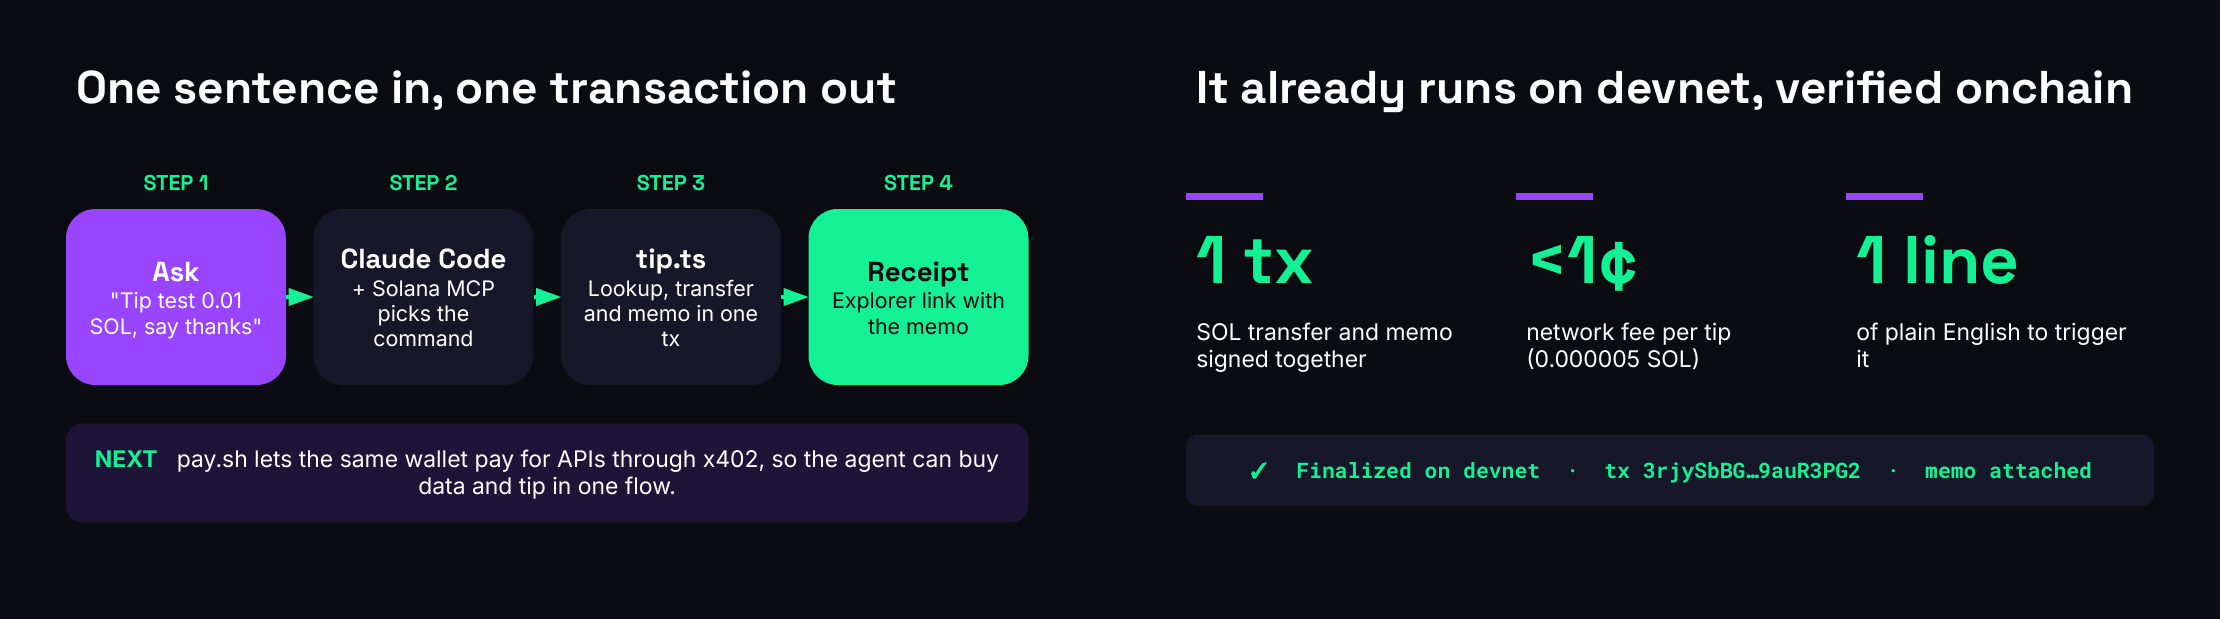
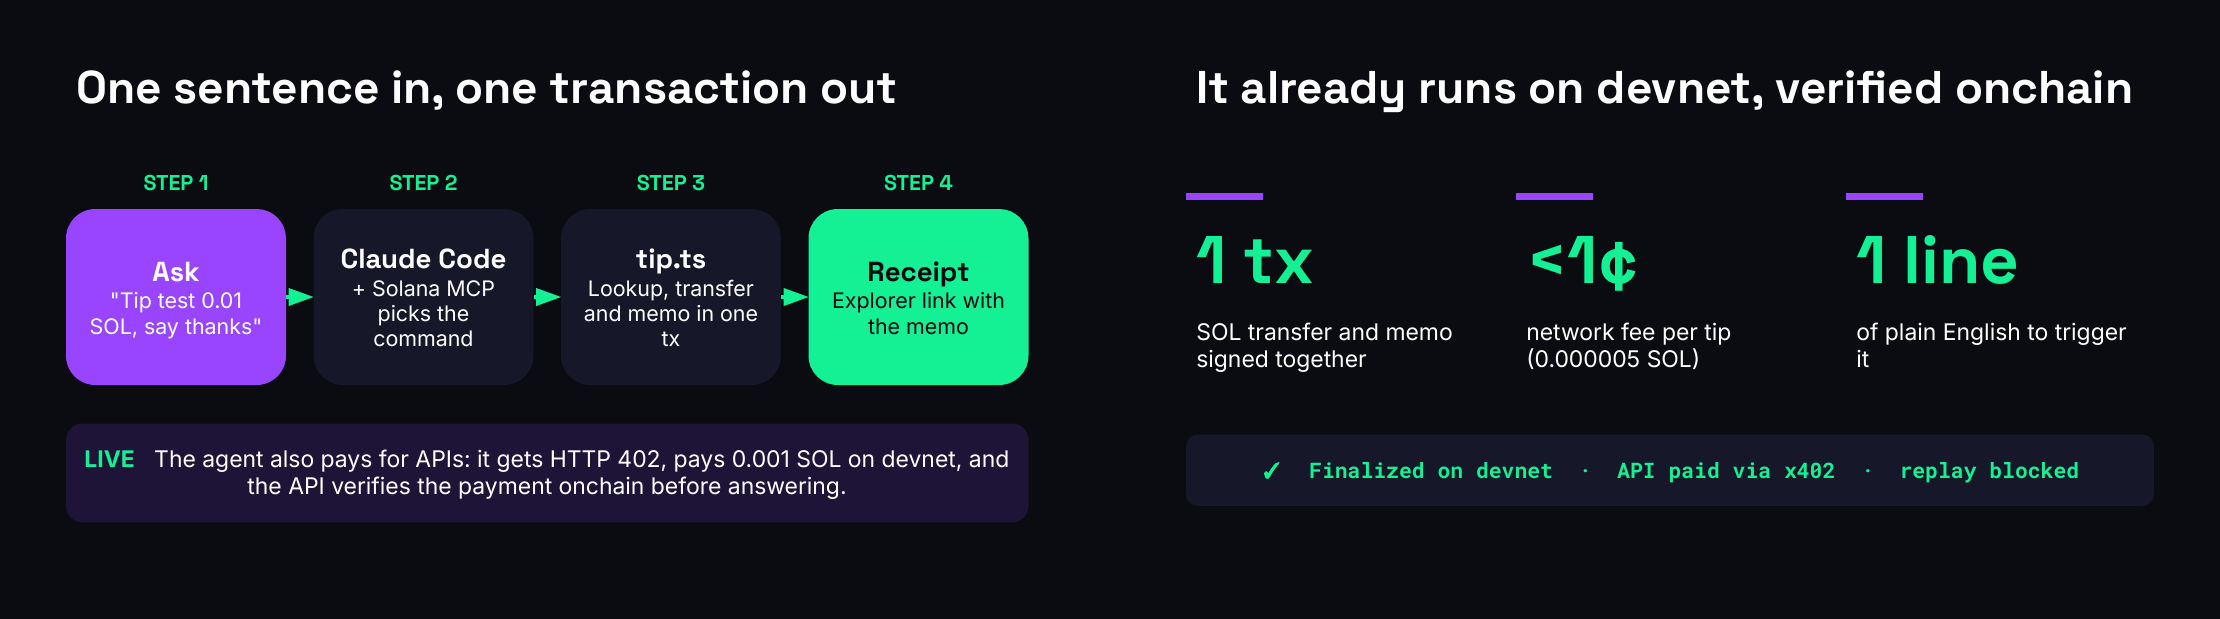
Polish README: new pitch, demo output, payment flow diagram, limitations; refresh slides
Claude-Session: https://claude.ai/code/session_0168t9DbzueZrnrMkRoX9Qn3

Changed region(s): [[0.0311, 0.706, 0.4662, 0.7981], [0.5595, 0.7367, 0.9635, 0.7981]]

diff --git a/README.md b/README.md
@@ -4,12 +4,12 @@
 
 <h1 align="center">Agent Tip Jar</h1>
 
-<p align="center"><b>Tell Claude who to tip in plain English. It sends SOL with an onchain memo and hands you the receipt.</b></p>
+<p align="center"><b>An AI agent with a Solana wallet. It pays for APIs over HTTP 402 and tips people, with an onchain receipt for every payment.</b></p>
 
 <p align="center">
   <img src="https://img.shields.io/badge/Solana-devnet-9945FF?logo=solana&logoColor=white" alt="Solana devnet">
   <img src="https://img.shields.io/badge/built%20with-Claude%20Code-14F195" alt="Built with Claude Code">
-  <img src="https://img.shields.io/badge/x402-pay.sh-1E1438" alt="x402 pay.sh">
+  <img src="https://img.shields.io/badge/payments-x402-1E1438" alt="x402 payments">
   <img src="https://img.shields.io/badge/license-MIT-white" alt="MIT license">
 </p>
 
@@ -24,11 +24,23 @@
 
 ## Demo
 
-A real devnet tip of 0.01 SOL to `test` with the memo "thanks for the workshop":
+One command: the agent hits a paid API, pays it on Solana, gets the answer, then tips a person.
 
-[View the transaction on Solana Explorer](https://explorer.solana.com/tx/3rjySbBGocuFV9xqUsHbCxyt9WUHFhCmUDxcvGQw2fSfL17axDLgse7fUGWnDW56rpr9ycUQeCGqkxxX9auR3PG2?cluster=devnet)
+```text
+$ npm run agent
+🧾 402 Payment Required: 0.001 SOL to 835ZAX5T3TKPzMAXenQrFx2aTZcPQwv1vnkZABgBLrCQ (memo 7ef209ac6941364b)
+💳 Paid 0.001 SOL
+🔮 Paid answer: A small tip today compounds into a big thank you tomorrow.
+💸 Tipped test 0.01 SOL: "paid via x402 + tipped onchain"
+```
 
-The transfer and the memo land in a single transaction, so the message is permanently attached to the payment.
+Real devnet receipts from that run:
+
+- [API payment](https://explorer.solana.com/tx/5aM8rR5Ecpoca5hfQMS2ZXRR9Z3aAi2S8XMZ97AgRrMnQnMfhFa9X4summNddgoGW368xvBurtkFsbJxaVm4LeWN?cluster=devnet) (0.001 SOL, memo nonce `7ef209ac6941364b`)
+- [Tip](https://explorer.solana.com/tx/FF1pg7zC7azFAYgjiQZrVAnk3pY9zin1VXho6guS5zCA9UKktvSTeasJyzZQsfzxo8jZbVFnp1qHKdsvuAzWqqh?cluster=devnet) (0.01 SOL, "paid via x402 + tipped onchain")
+- [First tip from plain English](https://explorer.solana.com/tx/3rjySbBGocuFV9xqUsHbCxyt9WUHFhCmUDxcvGQw2fSfL17axDLgse7fUGWnDW56rpr9ycUQeCGqkxxX9auR3PG2?cluster=devnet) ("thanks for the workshop")
+
+Every transfer and its memo land in one transaction, so the reason for each payment is permanently attached to it.
 
 ## How it works
 
@@ -48,10 +60,22 @@ The transfer and the memo land in a single transaction, so the message is perman
 3. It retries with `X-Payment: <tx signature>`. The server fetches that transaction on devnet, checks it paid at least the price to `payTo` with the matching nonce, then returns the answer. Nonces are single use, and reused or unknown signatures are rejected.
 4. It tips `test` 0.01 SOL with the memo "paid via x402 + tipped onchain" and prints both receipts.
 
-Receipts from a real run:
+### Payment flow
 
-- API payment (0.001 SOL, memo nonce `7ef209ac6941364b`): [view on Explorer](https://explorer.solana.com/tx/5aM8rR5Ecpoca5hfQMS2ZXRR9Z3aAi2S8XMZ97AgRrMnQnMfhFa9X4summNddgoGW368xvBurtkFsbJxaVm4LeWN?cluster=devnet)
-- Tip (0.01 SOL, "paid via x402 + tipped onchain"): [view on Explorer](https://explorer.solana.com/tx/FF1pg7zC7azFAYgjiQZrVAnk3pY9zin1VXho6guS5zCA9UKktvSTeasJyzZQsfzxo8jZbVFnp1qHKdsvuAzWqqh?cluster=devnet)
+```mermaid
+sequenceDiagram
+    participant A as Agent
+    participant S as Paid API
+    participant C as Solana devnet
+    A->>S: GET /fortune
+    S-->>A: 402 Payment Required (price, payTo, nonce)
+    A->>C: transfer 0.001 SOL + memo nonce (one tx)
+    C-->>A: signature
+    A->>S: GET /fortune + X-Payment: signature
+    S->>C: fetch tx, check amount, payTo, nonce
+    S-->>A: 200 answer (nonce now used)
+    A->>C: tip 0.01 SOL + thank you memo
+```
 
 ## Quick start
 
@@ -97,6 +121,12 @@ Add your own handles by copying `tips.example.json` to `tips.json` and filling i
 - Memo program (`@solana-program/memo`) for the onchain note, plus `@solana-program/system` for the transfer
 - [Solana Developer MCP](https://mcp.solana.com) for up-to-date docs inside the agent
 - [Claude Code](https://claude.com/claude-code) as the agent
+
+## Limitations
+
+- Devnet only. The agent refuses anything that is not SOL on devnet or costs more than 0.01 SOL.
+- The server keeps issued nonces and used signatures in memory, so a restart clears them. A real deployment would store them in a database.
+- The payment format is x402 style, not a full x402 spec implementation. pay.sh is the planned production path (see below).
 
 ## pay.sh (x402) status
 
